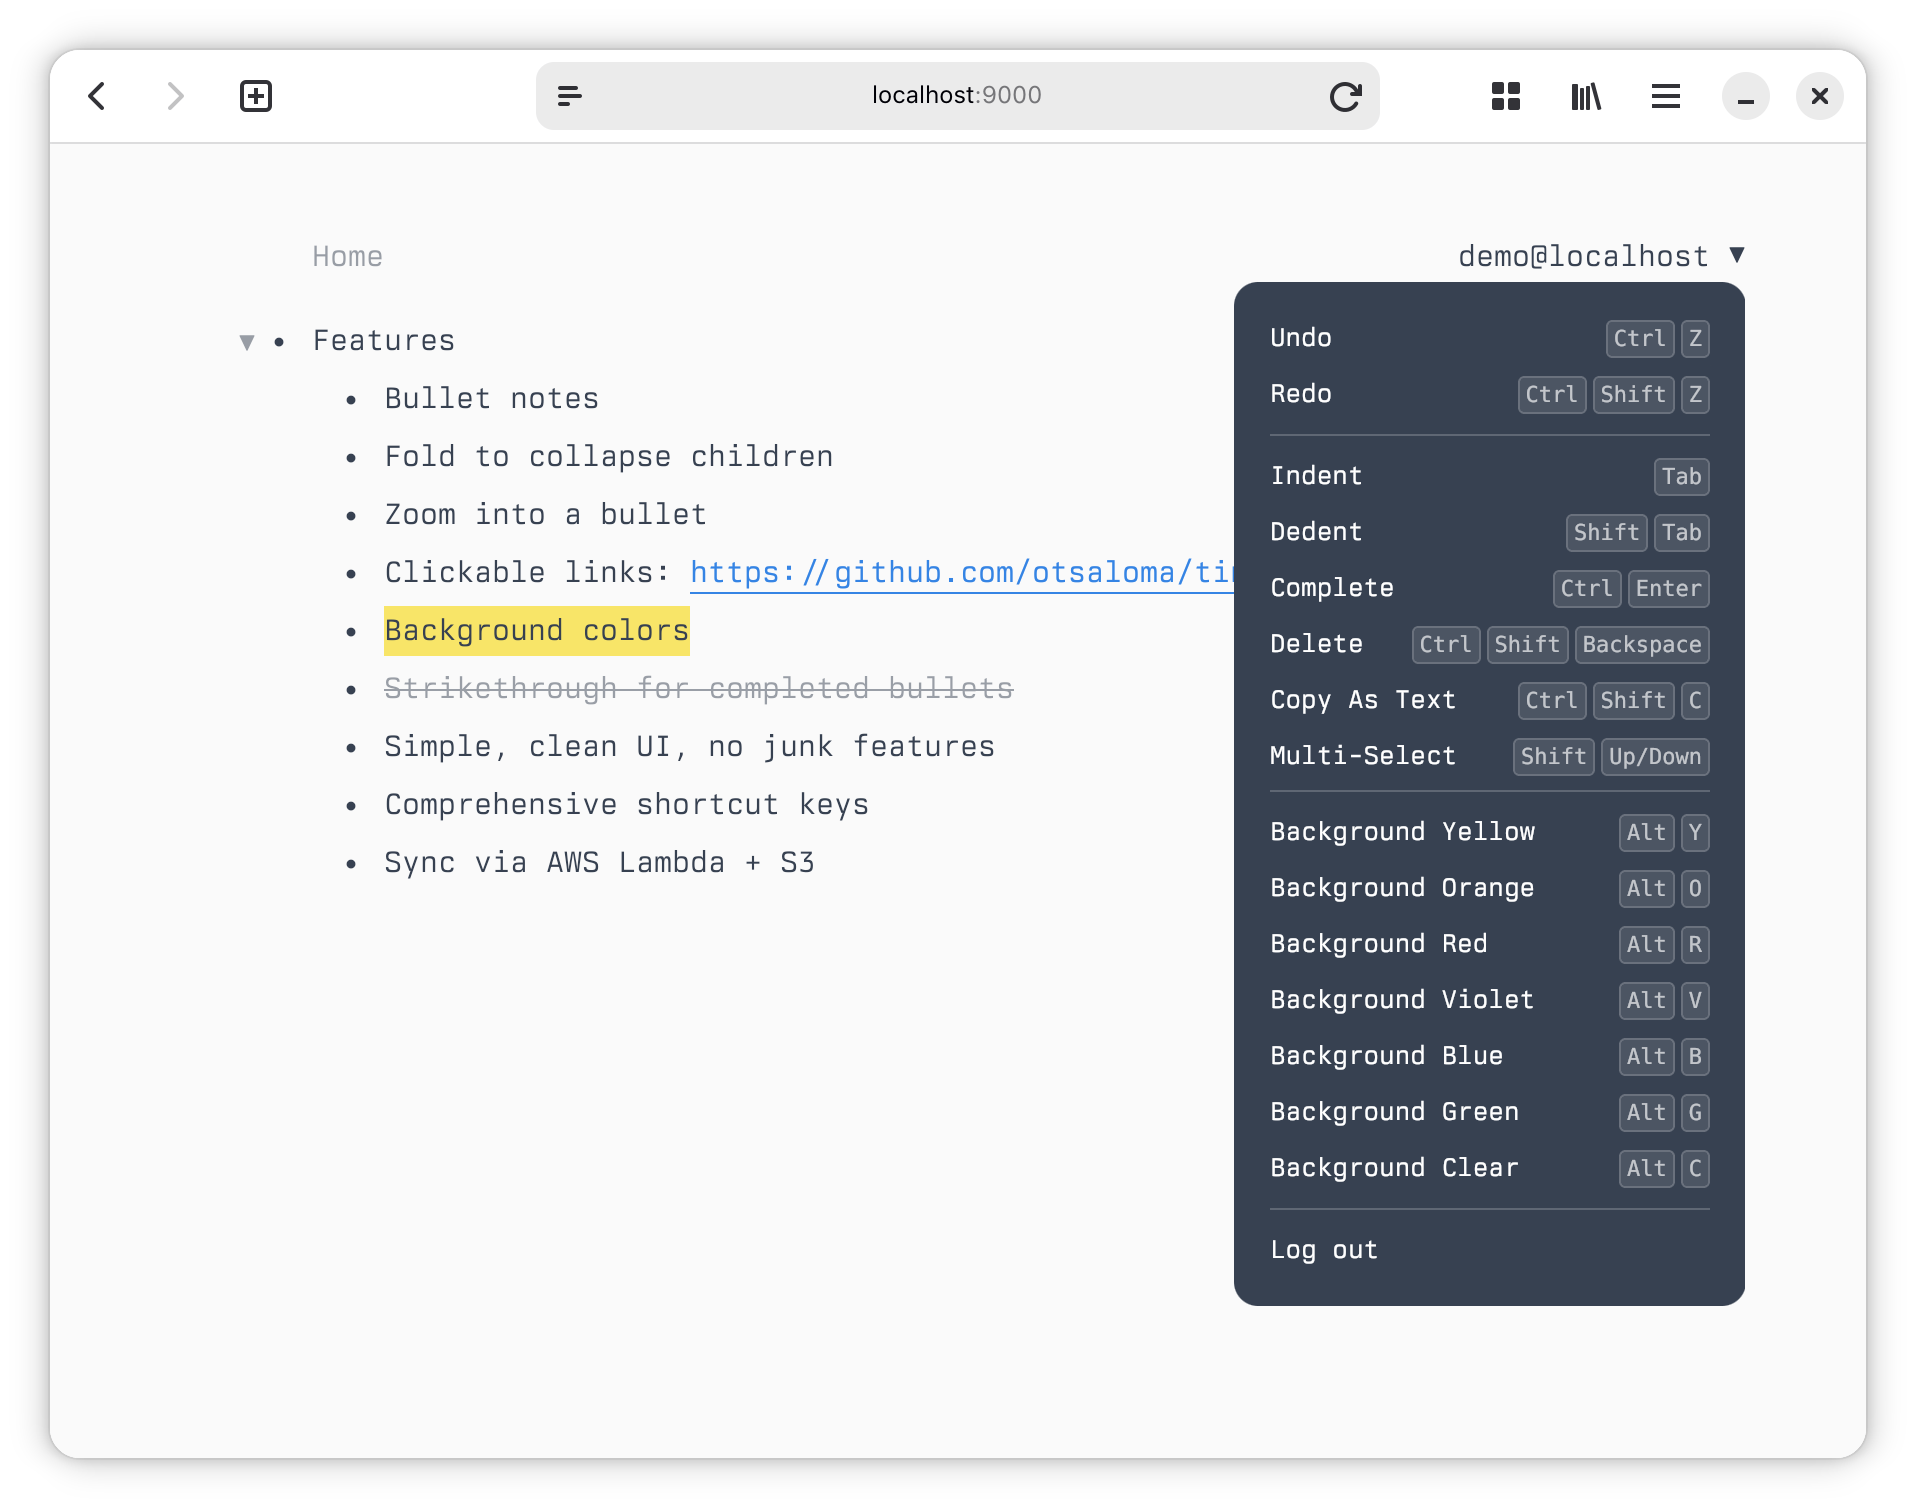
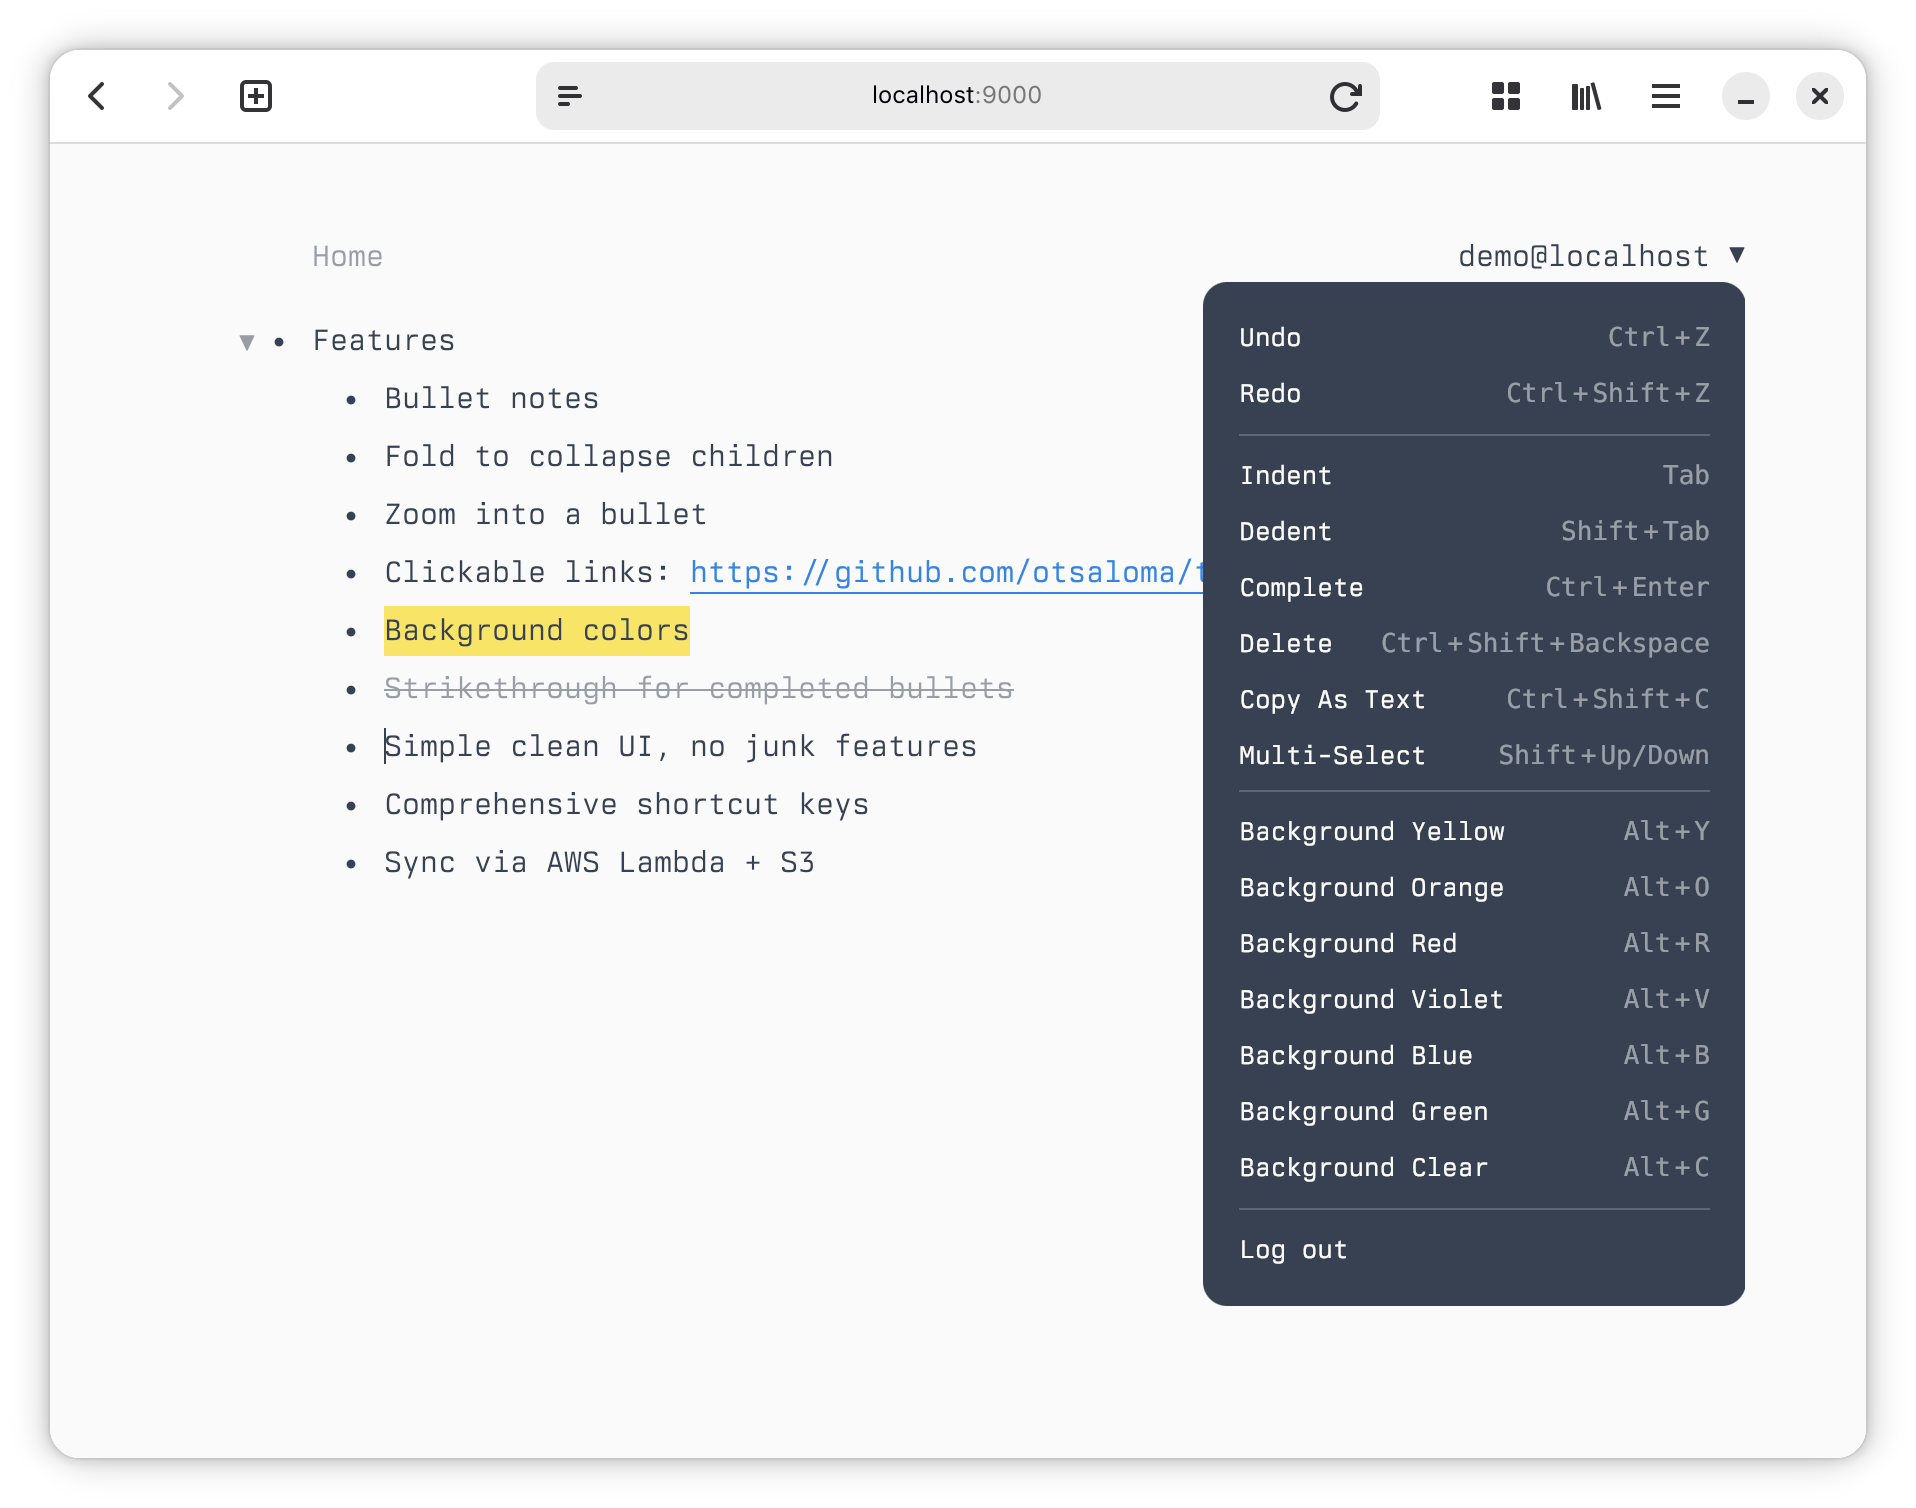
Simplify menu kbd styling

diff --git a/index.css b/index.css
@@ -251,18 +251,21 @@ body {
 }
 
 .menu-key kbd {
-  background: rgba(255, 255, 255, 0.15);
-  border: 1px solid rgba(255, 255, 255, 0.25);
-  border-radius: 3px;
-  display: inline-block;
-  font-size: var(--font-size-tiny);
-  line-height: 1;
-  margin-left: 3px;
-  padding: 3px;
+  opacity: 0.7;
+}
+
+.menu-key kbd::before {
+  content: "+";
+  margin: 0 2px;
 }
 
 .menu-key kbd:first-child {
   margin-left: 0;
+}
+
+.menu-key kbd:first-child::before {
+  content: "";
+  margin: 0;
 }
 
 .menu-separator {
